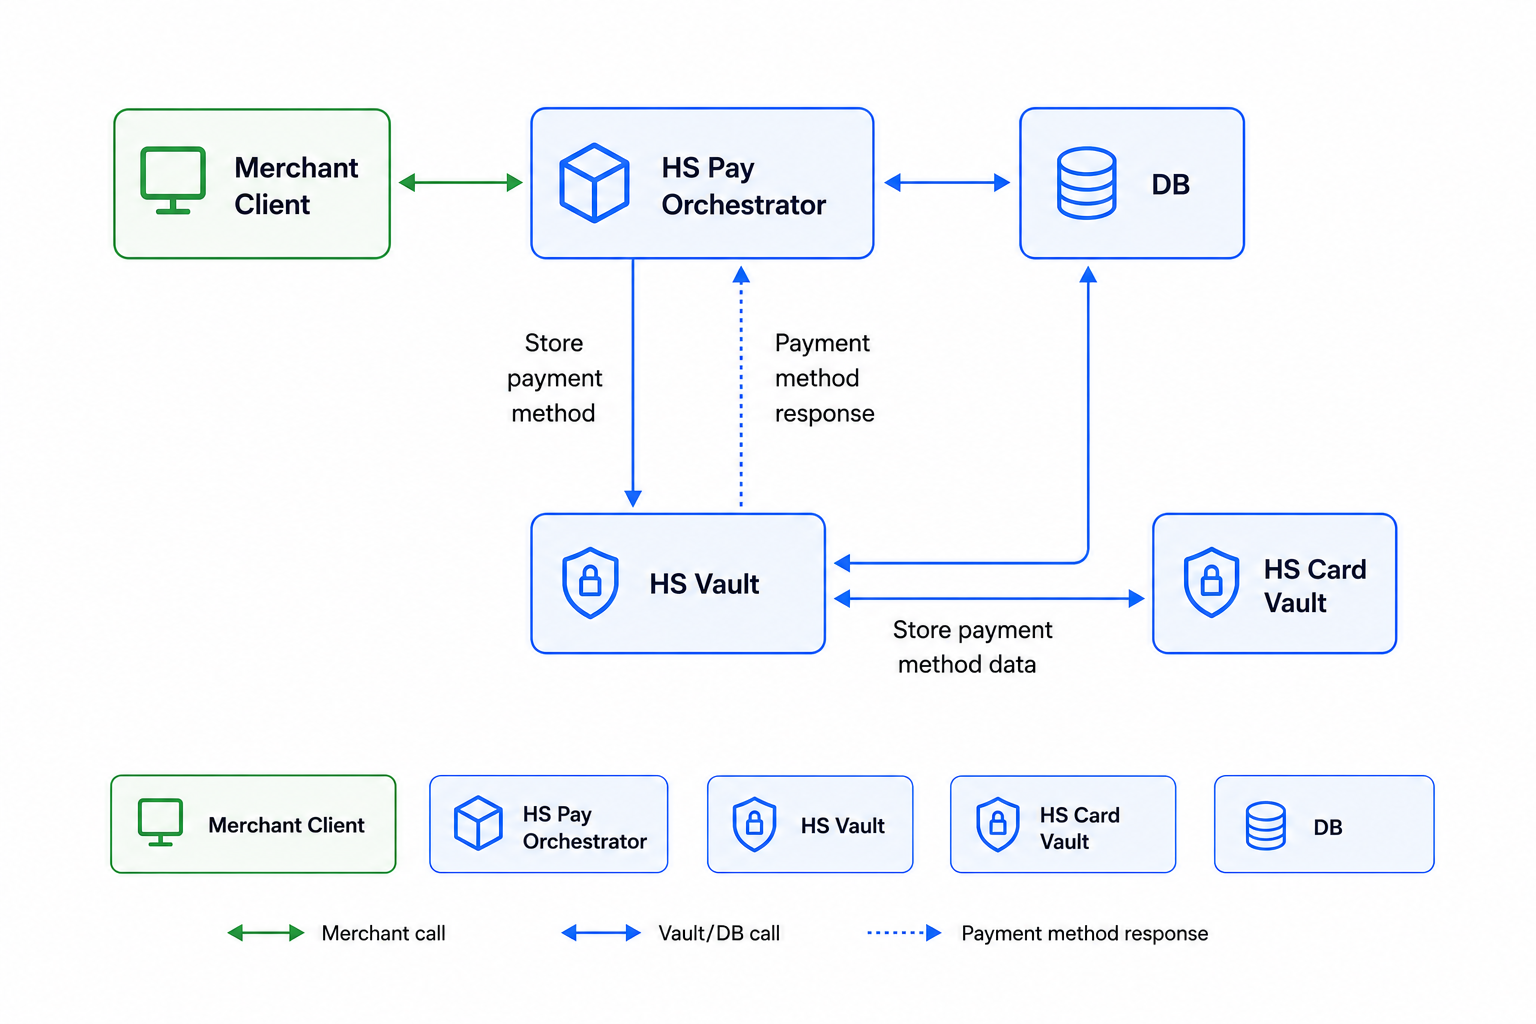
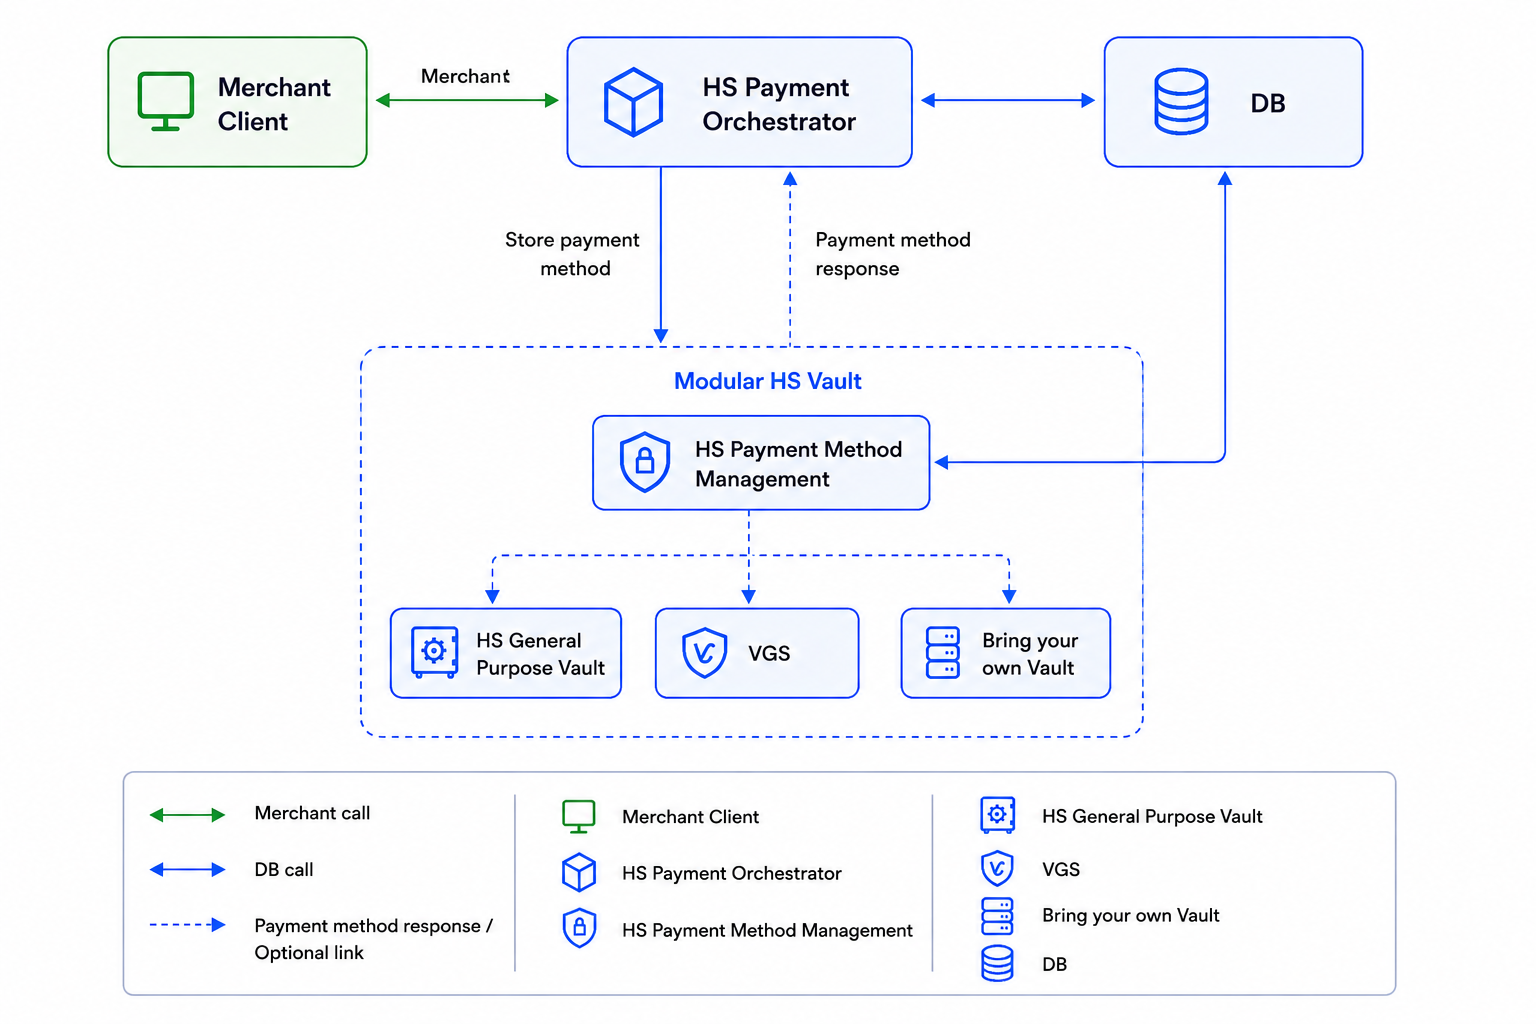
doc refactoring

diff --git a/integration-guide/workflows/vault/server-to-server-vault-tokenization.md b/integration-guide/workflows/vault/server-to-server-vault-tokenization.md
@@ -40,13 +40,25 @@ To implement server-to-server tokenization, you need:
 ### API Requests for Server to Server Tokenization
 
 {% hint style="info" %}
-All Vault API (V2) requests require a **Vault API Key** and your **Profile ID**. See [Vault Configuration](configuration.md) for step-by-step instructions on generating these credentials from the Hyperswitch Control Centre.
+All Vault API requests require a **Vault API Key** and your **Profile ID**. See [Vault Configuration](configuration.md) for step-by-step instructions on generating these credentials from the Hyperswitch Control Centre.
 {% endhint %}
 
 #### 1. Create a Customer
 
 * Endpoint: `POST /customers`
 * Purpose: Create a customer to enable storing their payment methods
+
+```bash
+curl --location 'https://app.hyperswitch.io/api/v1/customers' \
+--header 'Content-Type: application/json' \
+--header 'x-profile-id: <profile-id>' \
+--header 'Authorization: api-key=<api-key>' \
+--data-raw '{   
+    "merchant_reference_id": "customer_1770299",
+    "name": "John Doe",
+    "email": "[email redacted]"
+}'
+```
 
 For detailed request parameters and examples, refer to the [Create Customer API Reference](https://api-reference.hyperswitch.io/v2/customers/customers--create-v1).
 
@@ -55,12 +67,43 @@ For detailed request parameters and examples, refer to the [Create Customer API 
 * Endpoint: `POST /payment_methods`
 * Purpose: Generate a Id for a card
 
+```bash
+curl --location 'https://app.hyperswitch.io/api/v1/payment-methods' \
+--header 'Content-Type: application/json' \
+--header 'Accept: application/json' \
+--header 'X-Profile-Id: <profile-id>' \
+--header 'Authorization: api-key=<api-key>' \
+--data '{
+    "customer_id":"12345_cus_019e2102e4fb7a32b456d8f896e8f51e",
+    "payment_method_type": "card",
+    "payment_method_subtype": "credit",
+    "payment_method_data": {
+        "card": {
+            "card_number": "4111111111111111",
+            "card_exp_month": "03",
+            "card_exp_year": "2030",
+            "card_holder_name": "joseph Doe",
+            "card_cvc": "737"
+        }
+    },
+    "storage_type": "persistent"
+}'
+```
+
 For detailed request parameters and examples, including how to create payment method tokens with PSP tokens or network tokens, refer to the [Create Payment Method API Reference](https://api-reference.hyperswitch.io/v2/payment-methods/payment-method--create-v1).
 
 #### 3. Retrieve a Payment Method Id
 
 * Endpoint: `POST /payment_methods/:pm_id`
 * Purpose: Retrieve a Payment Method for a Id
+
+```bash
+curl --location 'https://app.hyperswitch.io/api/v1/payment-methods/:payment_method_id' \
+--header 'Content-Type: application/json' \
+--header 'Accept: application/json' \
+--header 'Authorization: api-key=<api-key>' \
+--header 'x-profile-id: <profile-id>'
+```
 
 For detailed request parameters and examples, including how to retrieve payment method id with network tokens, refer to the [Retrieve Payment Method API Reference](https://api-reference.hyperswitch.io/v2/payment-methods/payment-method--retrieve-v1).
 
@@ -69,11 +112,35 @@ For detailed request parameters and examples, including how to retrieve payment 
 * Endpoint: `PATCH /payment_methods/:pm_id/update_saved_payment_method`
 * Purpose: Modify Payment Method details.
 
+```bash
+curl --location --request PUT 'https://app.hyperswitch.io/api/v1/payment-methods/:payment_method_id/update-saved-payment-method' \
+--header 'Content-Type: application/json' \
+--header 'Accept: application/json' \
+--header 'X-Profile-Id: <profile-id>' \
+--header 'Authorization: api-key=<api-key>' \
+--data '{
+    "payment_method_data": {
+        "card": {
+            "card_holder_name": "joseph",
+            "nick_name": "some_name11",
+            "card_cvc": "737"
+        }
+    }
+}'
+```
+
 For detailed request parameters and examples, refer to the [Update Payment Method API Reference](https://api-reference.hyperswitch.io/v2/payment-methods/payment-method--update-v1).
 
 #### 5. Delete a Payment Method Id
 
 * Endpoint: `DELETE /payment_methods/:pm_id`
 * Purpose: Remove a Id from the vault.
+
+```bash
+curl --request DELETE \
+  --url https://sandbox.hyperswitch.io/v1/payment-methods/:payement_method_id \
+  --header 'Authorization: <api-key>' \
+  --header 'X-Profile-Id: <profile-id>'
+```
 
 For detailed request parameters and examples, refer to the [Delete Payment Method API Reference](https://api-reference.hyperswitch.io/v2/payment-methods/payment-method--delete-v1).

diff --git a/integration-guide/workflows/vault/deployment-models.md b/integration-guide/workflows/vault/deployment-models.md
@@ -14,7 +14,7 @@ Juspay Hyperswitch supports multiple vault deployment models to match your PCI p
 
 <table><thead><tr><th width="250">Deployment Model</th><th width="200">Vault Options</th><th width="200">PCI Ownership / Scope</th><th>Example Use Case</th></tr></thead><tbody>
 <tr><td rowspan="3"><strong>Vault Standalone</strong></td><td><a href="self-hosted-and-in-house-pci.md">SaaS Hyperswitch Vault</a></td><td>Merchant PCI Environment</td><td>Financial institutions requiring full data sovereignty and PCI control with raw payment method responses</td></tr>
-<tr><td><a href="hyperswitch-vault-pass-through-proxy-payments.md">SaaS Hyperswitch Vault</a></td><td>Reduced PCI Scope</td><td>Merchants wanting to avoid PCI scope while maintaining existing PSP relationships via Proxy API</td></tr>
+<tr><td><a href="hyperswitch-vault-pass-through-proxy-payments.md">SaaS Hyperswitch Vault</a></td><td>Non PCI Scope</td><td>Merchants wanting to avoid PCI scope while maintaining existing PSP relationships via Proxy API</td></tr>
 <tr><td><a href="connect-external-vaults-to-hyperswitch-orchestration.md">Third-Party Vault</a></td><td>Merchant PCI Environment</td><td>Merchants already using third-party vault providers like VGS, TokenEx, or similar services</td></tr>
 <tr><td rowspan="3"><strong>Self-Hosted Pay Orchestrator</strong></td><td><a href="self-hosted-and-in-house-pci.md">Self-Hosted Hyperswitch Vault</a></td><td>PCI Environment</td><td>Large enterprises requiring full control over both orchestration and payment data</td></tr>
 <tr><td><a href="self-hosted-orchestration-with-external-or-third-party-pci-vault.md">SaaS Hyperswitch Vault</a></td><td>Non-PCI</td><td>Mid-size merchants needing orchestration flexibility without PCI burden</td></tr>